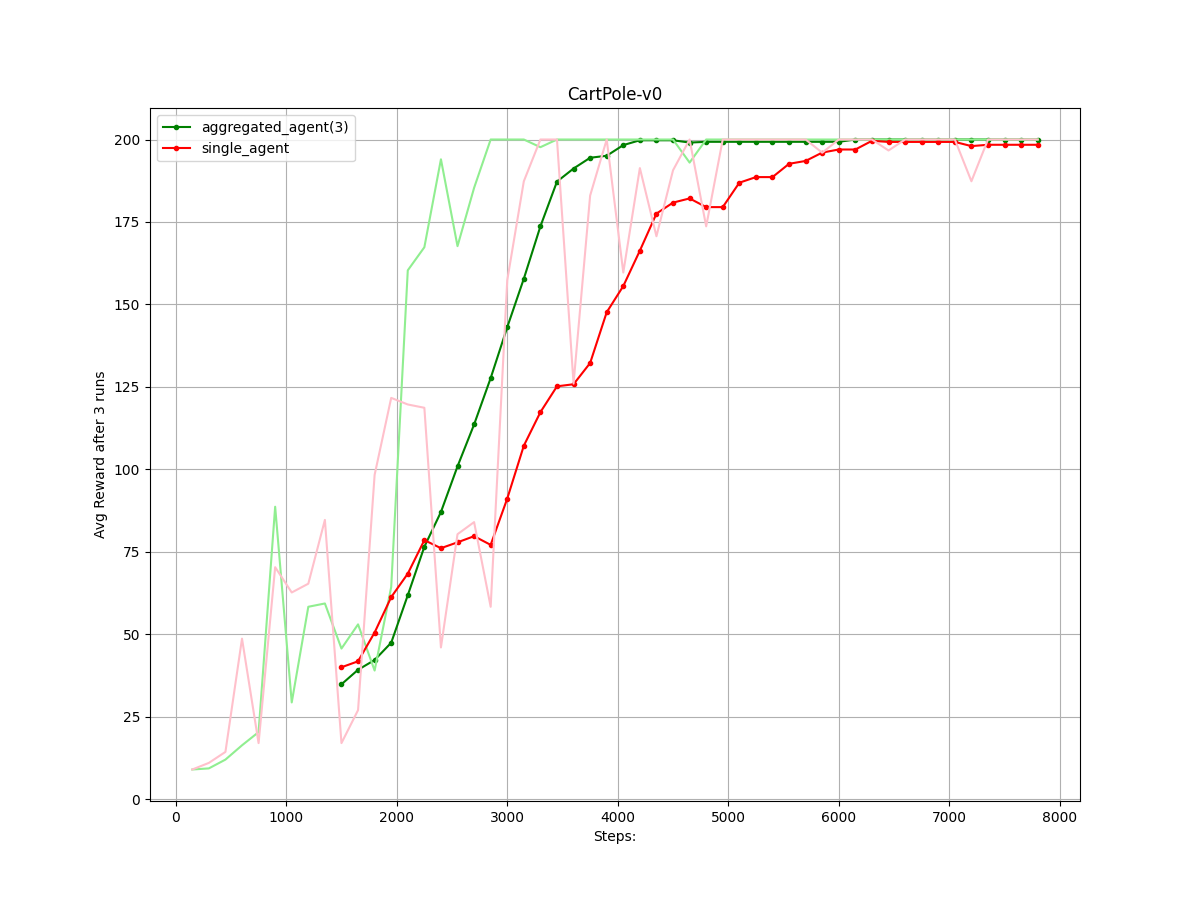
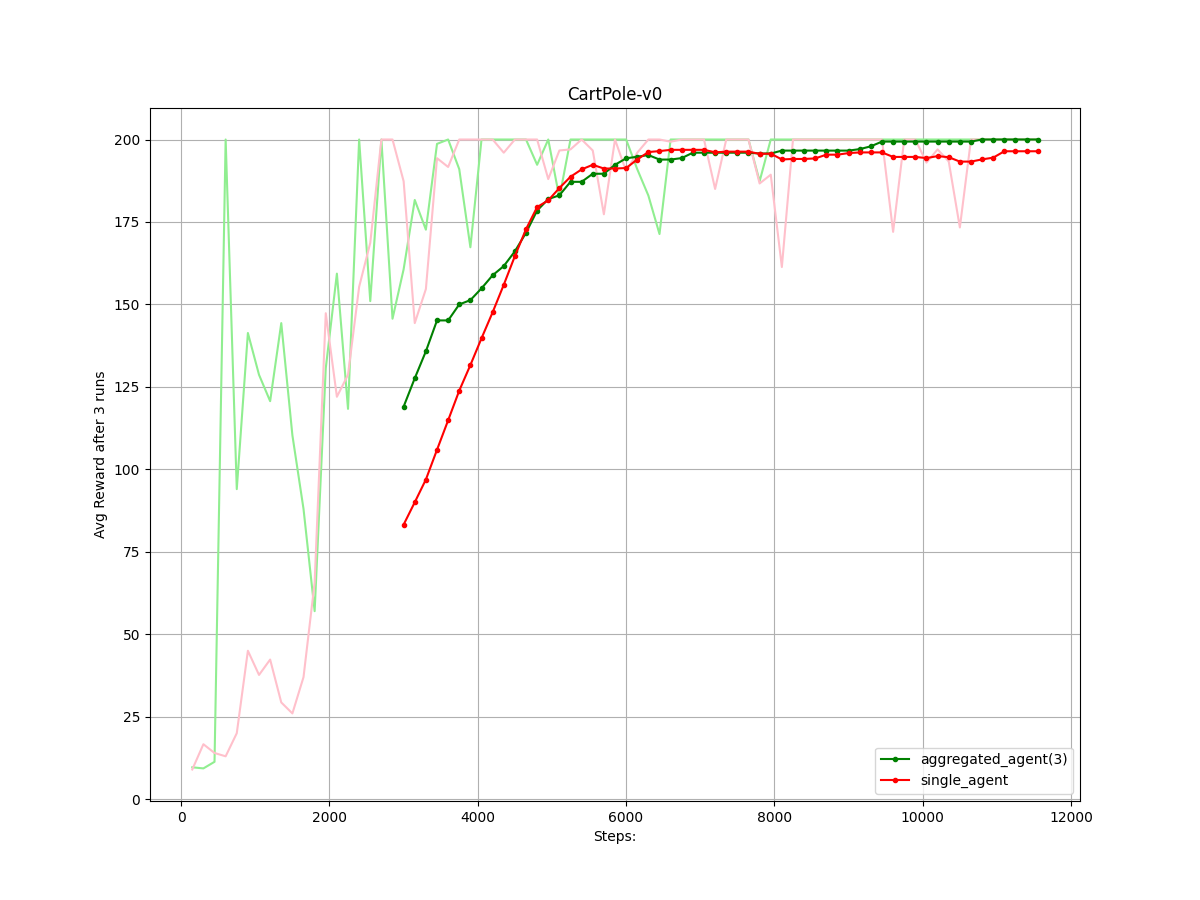
plotting from saved values

diff --git a/plotter.py b/plotter.py
@@ -1,6 +1,6 @@
 import pandas as pd
 import matplotlib.pyplot as plt
-import numpy as numpy
+import numpy as np
 
 def plot_graph(y1, y2, x1, ENV_NAME, NO_OF_TRAINERS, ROLLING):
     plt.figure(figsize=[12, 9])
@@ -8,13 +8,20 @@ def plot_graph(y1, y2, x1, ENV_NAME, NO_OF_TRAINERS, ROLLING):
     plt.title(ENV_NAME)
     plt.xlabel('Steps:')
     plt.ylabel('Avg Reward after 3 runs')
-    plt.plot(x1, pd.DataFrame(y1)[0].rolling(ROLLING).mean(), color='green',  marker='.', label='aggregated_agent({})'.format(NO_OF_TRAINERS))
     plt.plot(x1, y1, color='lightgreen')
-    plt.plot(x1, pd.DataFrame(y2)[0].rolling(ROLLING).mean(), color='red',  marker='.', label='single_agent')
     plt.plot(x1, y2, color='pink')
+    plt.plot(x1, pd.DataFrame(y1)[0].rolling(ROLLING).mean(), color='green',  marker='.', label='aggregated_agent({})'.format(NO_OF_TRAINERS))
+    plt.plot(x1, pd.DataFrame(y2)[0].rolling(ROLLING).mean(), color='red',  marker='.', label='single_agent')
     plt.grid()
     plt.legend()
 
     # plt.show()
     plt.savefig('plots/'+ENV_NAME+'_'+str(NO_OF_TRAINERS)+'plot.png')
     plt.close()
+
+if __name__ == "__main__":
+    ENV_NAME = 'Acrobot-v1'
+    y1 = np.loadtxt('arrays/scores_global_agent_'+ENV_NAME+'.csv')
+    y2 = np.loadtxt('arrays/scores_single_agent_'+ENV_NAME+'.csv')
+    x1 = np.loadtxt('arrays/steps_'+ENV_NAME+'.csv')
+    plot_graph(y1, y2, x1, ENV_NAME, 3, 40)

diff --git a/multiple_trainer.py b/multiple_trainer.py
@@ -29,7 +29,7 @@ def make_new_env(ENV_NAME, seed):
 
 
 if __name__ == "__main__":
-    ENV_NAME = "Acrobot-v1"
+    ENV_NAME = "CartPole-v0"
     torch.manual_seed(0)
     np.random.seed(0)
 
@@ -69,9 +69,9 @@ if __name__ == "__main__":
             scores_single_agent.append(test_agent(test_env, single_agent))
             steps.append(single_agent.step_cnt)
 
-            np.savetxt('arrays/scores_global_agent.csv', np.array(scores_global_agent))
-            np.savetxt('arrays/scores_single_agent.csv', np.array(scores_single_agent))
-            np.savetxt('arrays/steps.csv', np.array(steps))
+            np.savetxt('arrays/scores_global_agent_'+ENV_NAME+'.csv', np.array(scores_global_agent))
+            np.savetxt('arrays/scores_single_agent_'+ENV_NAME+'.csv', np.array(scores_single_agent))
+            np.savetxt('arrays/steps_'+ENV_NAME+'.csv', np.array(steps))
             ###############PLOT##################
             plot_graph(scores_global_agent, scores_single_agent, steps, ENV_NAME, NO_OF_TRAINERS, ROLLING=20)
 
